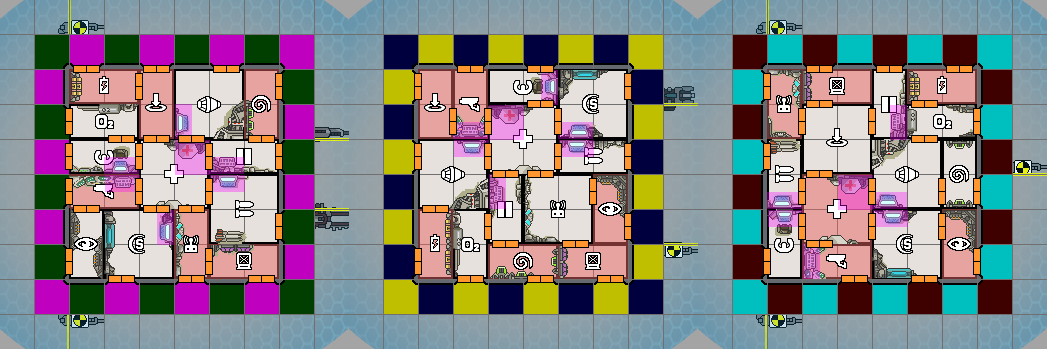
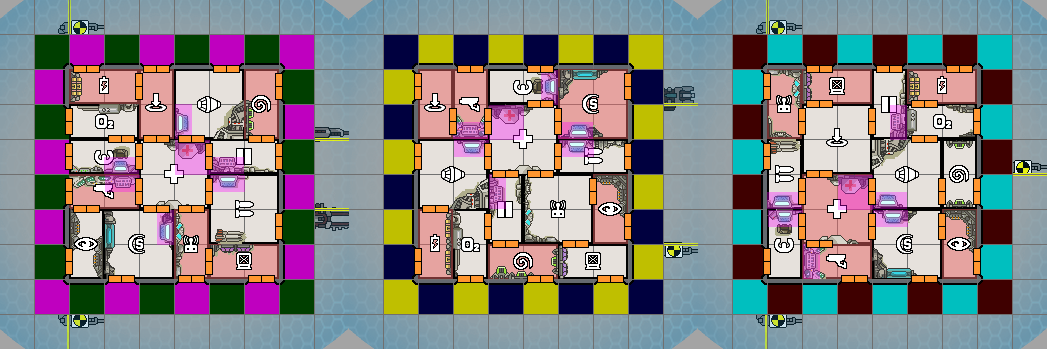
Update from 1.5 to 1.6
Square B: decreased Reactor from 7 to 6, removed Shields, replaced System Repair Drone and Hull Repair Drone with Anti-Combat Drone and Defense Drone 1, added Hacking lvl 1, added Defense Scrambler and Long-Ranged Scanners augments, increased Drone Parts from 3 to 6.
Square C: increased Mind Control lvl from 1 to 2

Changed region(s): [[0.5196, 0.2006, 0.6113, 0.4011], [0.5196, 0.6877, 0.6113, 0.8023]]

diff --git a/README.md b/README.md
@@ -1,5 +1,5 @@
 # SquareCruiser
-Mod that adds the Square Cruiser to the game FTL: Faster Than Light. Latest version: 1.5
+Mod that adds the Square Cruiser to the game FTL: Faster Than Light. Latest version: 1.6
 
 Requires the [Hyperspace mod](https://github.com/FTL-Hyperspace/FTL-Hyperspace) for the multi-page ship list, as it does not replace any vanilla ship. Hyperspace also has a fix for the "WEAPONS" and "AUTOFIRE" graphics overlapping for ships with 2 or less max weapons, applicable for Square B.
 
@@ -24,7 +24,7 @@ Lore: The Federation is strapped on cash, not even enough for proper textures, t
 
 [Square A in Hangar](https://raw.githubusercontent.com/CommunistMountain/SquareCruiser/main/preview-images/SquareA%20Promo.png)
 
-Square A (Nausicaä): Weapon focus. "This ship is designed to burn enemy ships. Comes with a Cloaking system to buy time while arming the Fire Beam."
+Square A (Nausicaä): Weapon focus. "This ship is designed to burn enemy vessels. Comes with Cloaking to buy time while arming the Fire Beam."
 <table>
 	<tr>
 		<td>Crew</td>
@@ -50,7 +50,7 @@ Square A (Nausicaä): Weapon focus. "This ship is designed to burn enemy ships. 
 
 [Square B in Hangar](https://raw.githubusercontent.com/CommunistMountain/SquareCruiser/main/preview-images/SquareB%20Promo.png)
 
-Square B (The Mothership): Drone focus. "This ship was designed by a drone fanatic, able to control up to 4 drones at once, and recover non-destroyed drones."
+Square B (The Mothership): Drone focus. "This ship was designed by a drone fanatic, able to control up to 4 drones at once and recover non-destroyed drones, at the cost of having fewer weapon slots no Shields."
 <table>
 	<tr>
 		<td>Crew</td>
@@ -58,7 +58,7 @@ Square B (The Mothership): Drone focus. "This ship was designed by a drone fanat
 	</tr>
 	<tr>
 		<td>Systems by Level</td>
-		<td>1: Doors, Engines, Medbay, Oxygen, Piloting, Weapons; 2: Shields; 5: Drones</td>
+		<td>1: Doors, Engines, Hacking, Medbay, Oxygen, Piloting, Weapons; 5: Drones</td>
 	</tr>
 	<tr>
 		<td>Weapons/Drones Max Slots</td>
@@ -66,17 +66,17 @@ Square B (The Mothership): Drone focus. "This ship was designed by a drone fanat
 	</tr>
 	<tr>
 		<td>Starting Resources, Reactor, Weapons/Drones</td>
-		<td>0 Missiles, 3 Drone Parts, 7 Reactor, 1 Ion Blast, 1 Combat Drone 1, 1 Beam Drone 1, 1 System Repair Drone, 1 Hull Repair</td>
+		<td>0 Missiles, 6 Drone Parts, 6 Reactor, 1 Ion Blast, 1 Combat Drone 1, 1 Beam Drone 1, 1 Anti-Combat Drone, 1 Defense Drone 1</td>
 	</tr>
 	<tr>
 		<td>Augmentations</td>
-		<td>Drone Recovery Arm</td>
+		<td>Defense Scrambler, Drone Recovery Arm, Long-Ranged Scanners</td>
 	</tr>
 </table>
 
 [Square C in Hangar](https://raw.githubusercontent.com/CommunistMountain/SquareCruiser/main/preview-images/SquareC%20Promo.png)
 
-Square C (Ragnarr Loðbrók): Boarding focus. "This ship goes all-in with the boarding strategy, capable of bypassing supershields, and trading medical facilities for a healing teleporter."
+Square C (Ragnarr Loðbrók): Boarding focus. "This ship goes all-in with the boarding strategy, capable of bypassing supershields, and trading medical facilities for a healing Teleporter."
 <table>
 	<tr>
 		<td>Crew</td>
@@ -84,7 +84,7 @@ Square C (Ragnarr Loðbrók): Boarding focus. "This ship goes all-in with the bo
 	</tr>
 	<tr>
 		<td>Systems by Level</td>
-		<td>1: Doors, Mind Control, Oxygen, Weapons; 2: Piloting, Shields; 3: Teleporter; 4: Engines</td>
+		<td>1: Doors, Oxygen, Weapons; 2: Mind Control, Piloting, Shields; 3: Teleporter; 4: Engines</td>
 	</tr>
 	<tr>
 		<td>Weapons/Drones Max Slots</td>
